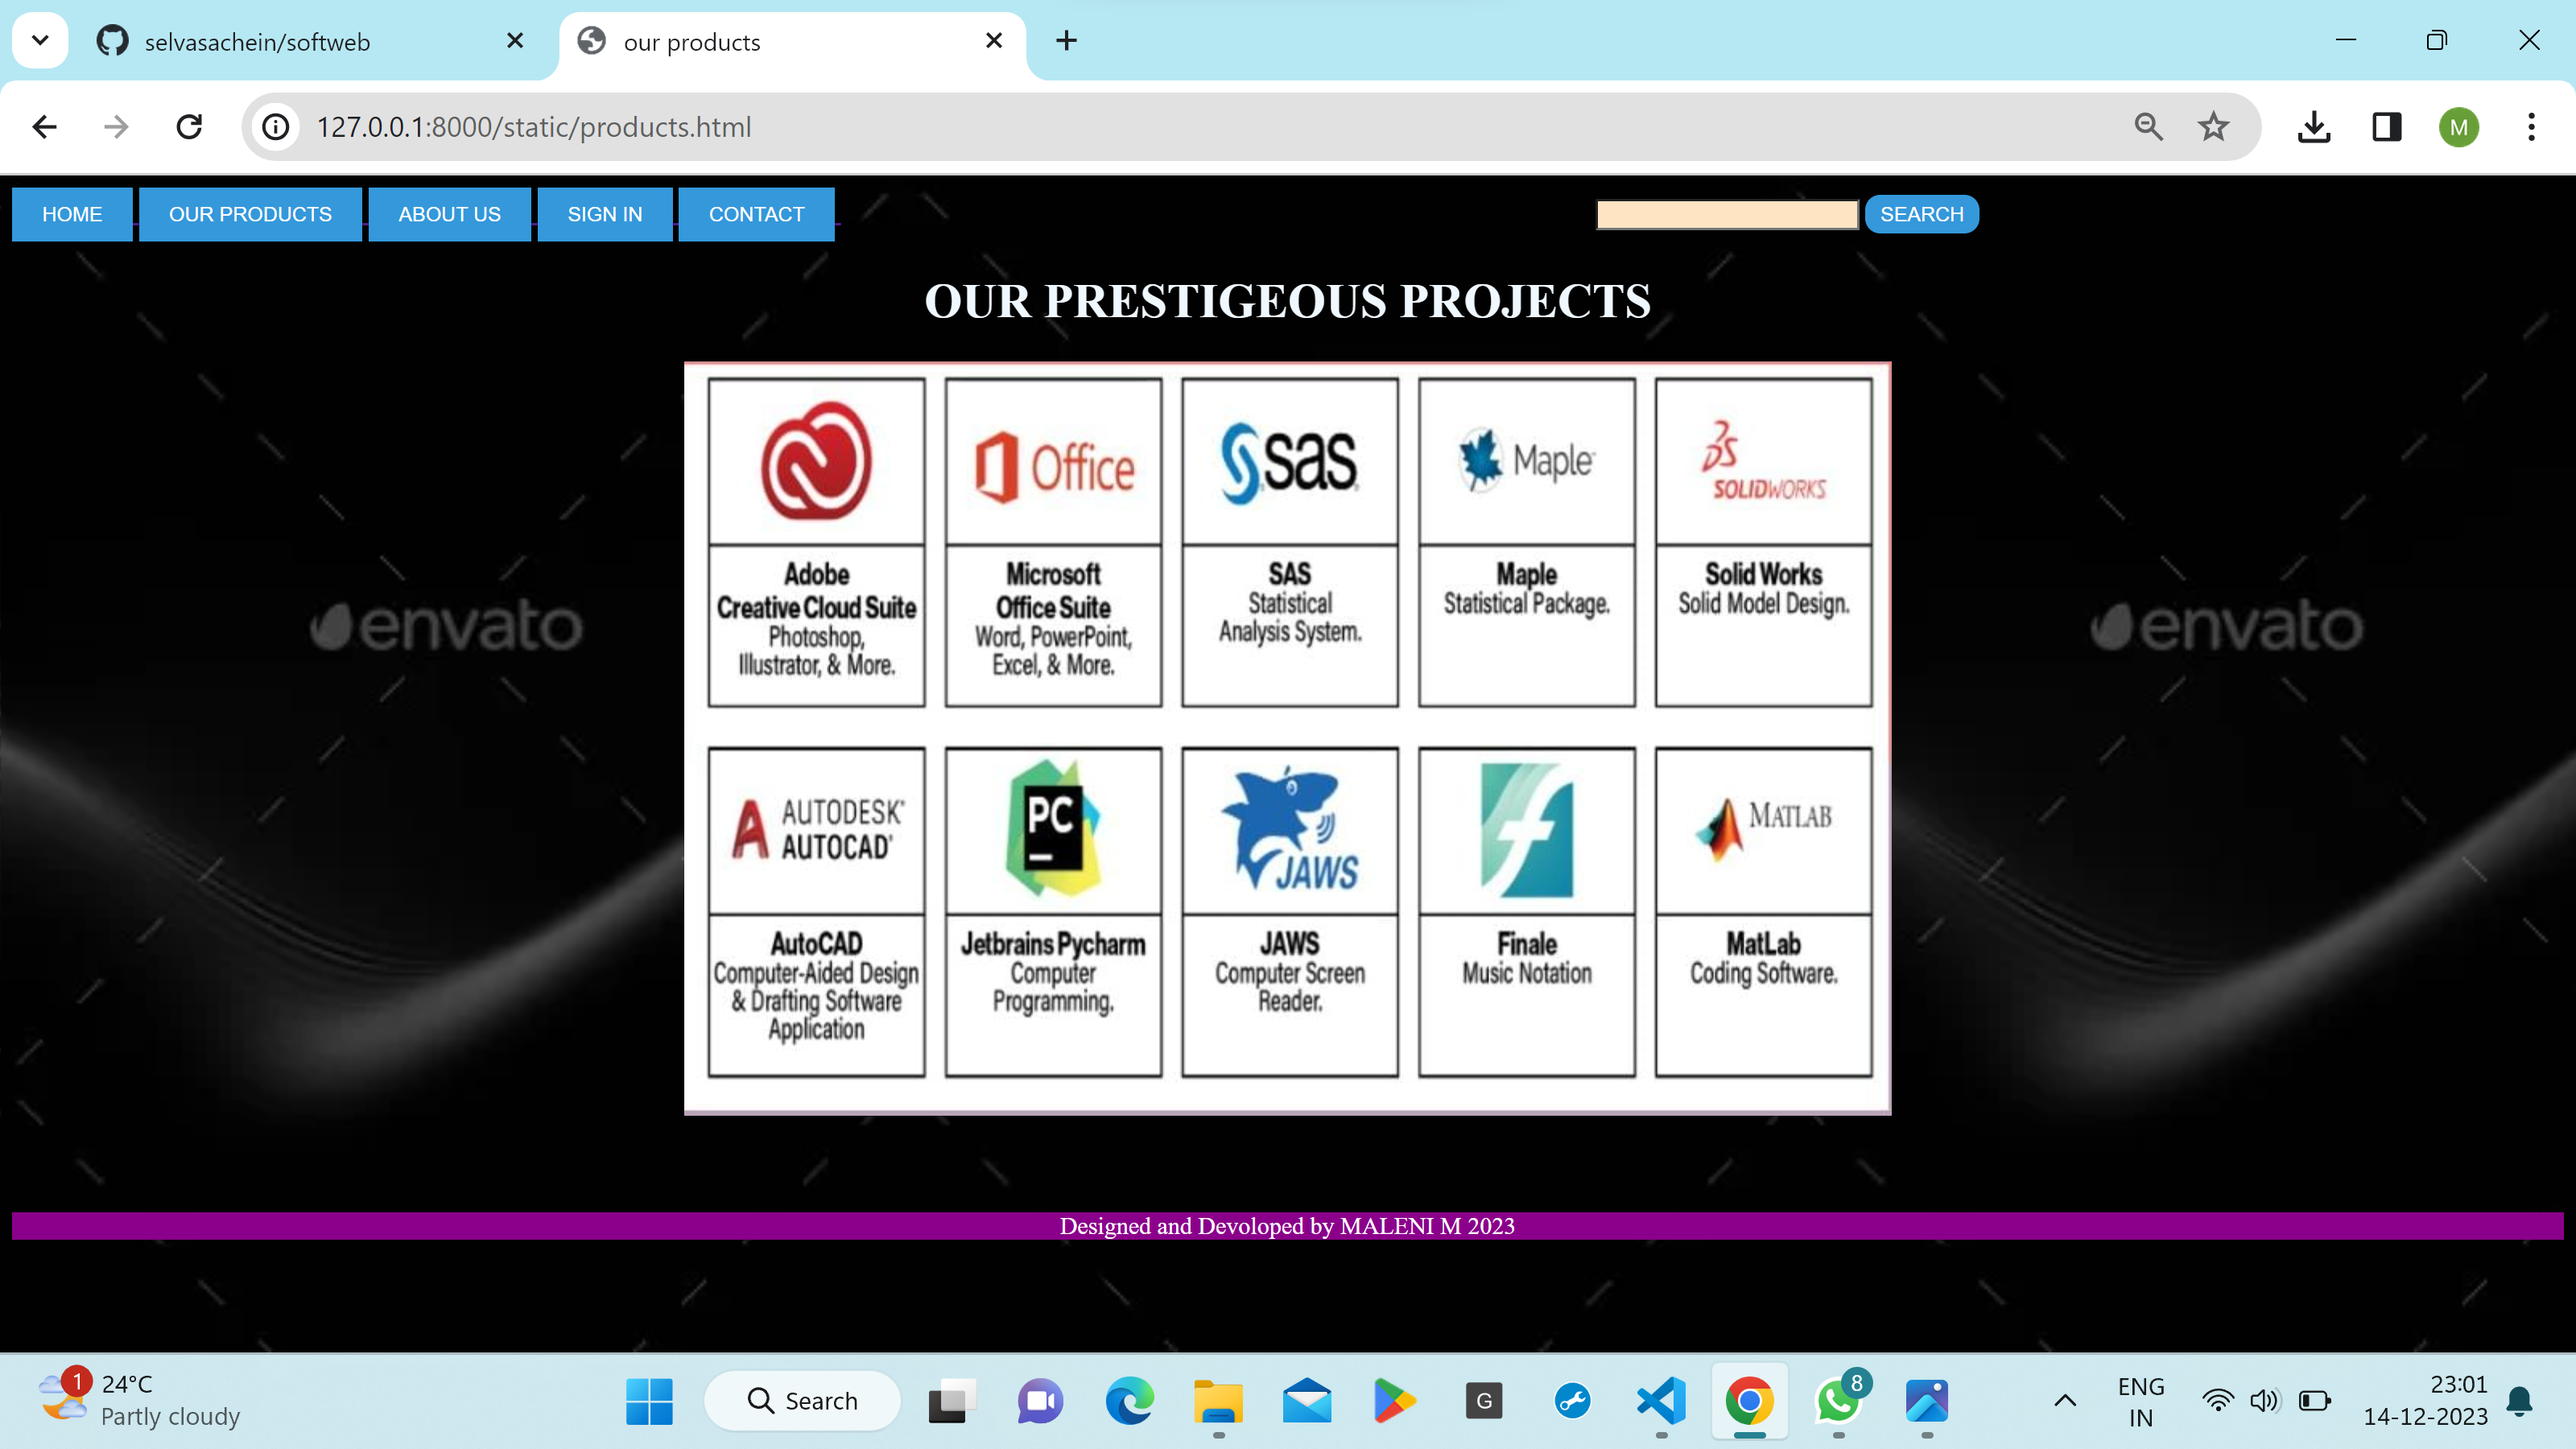
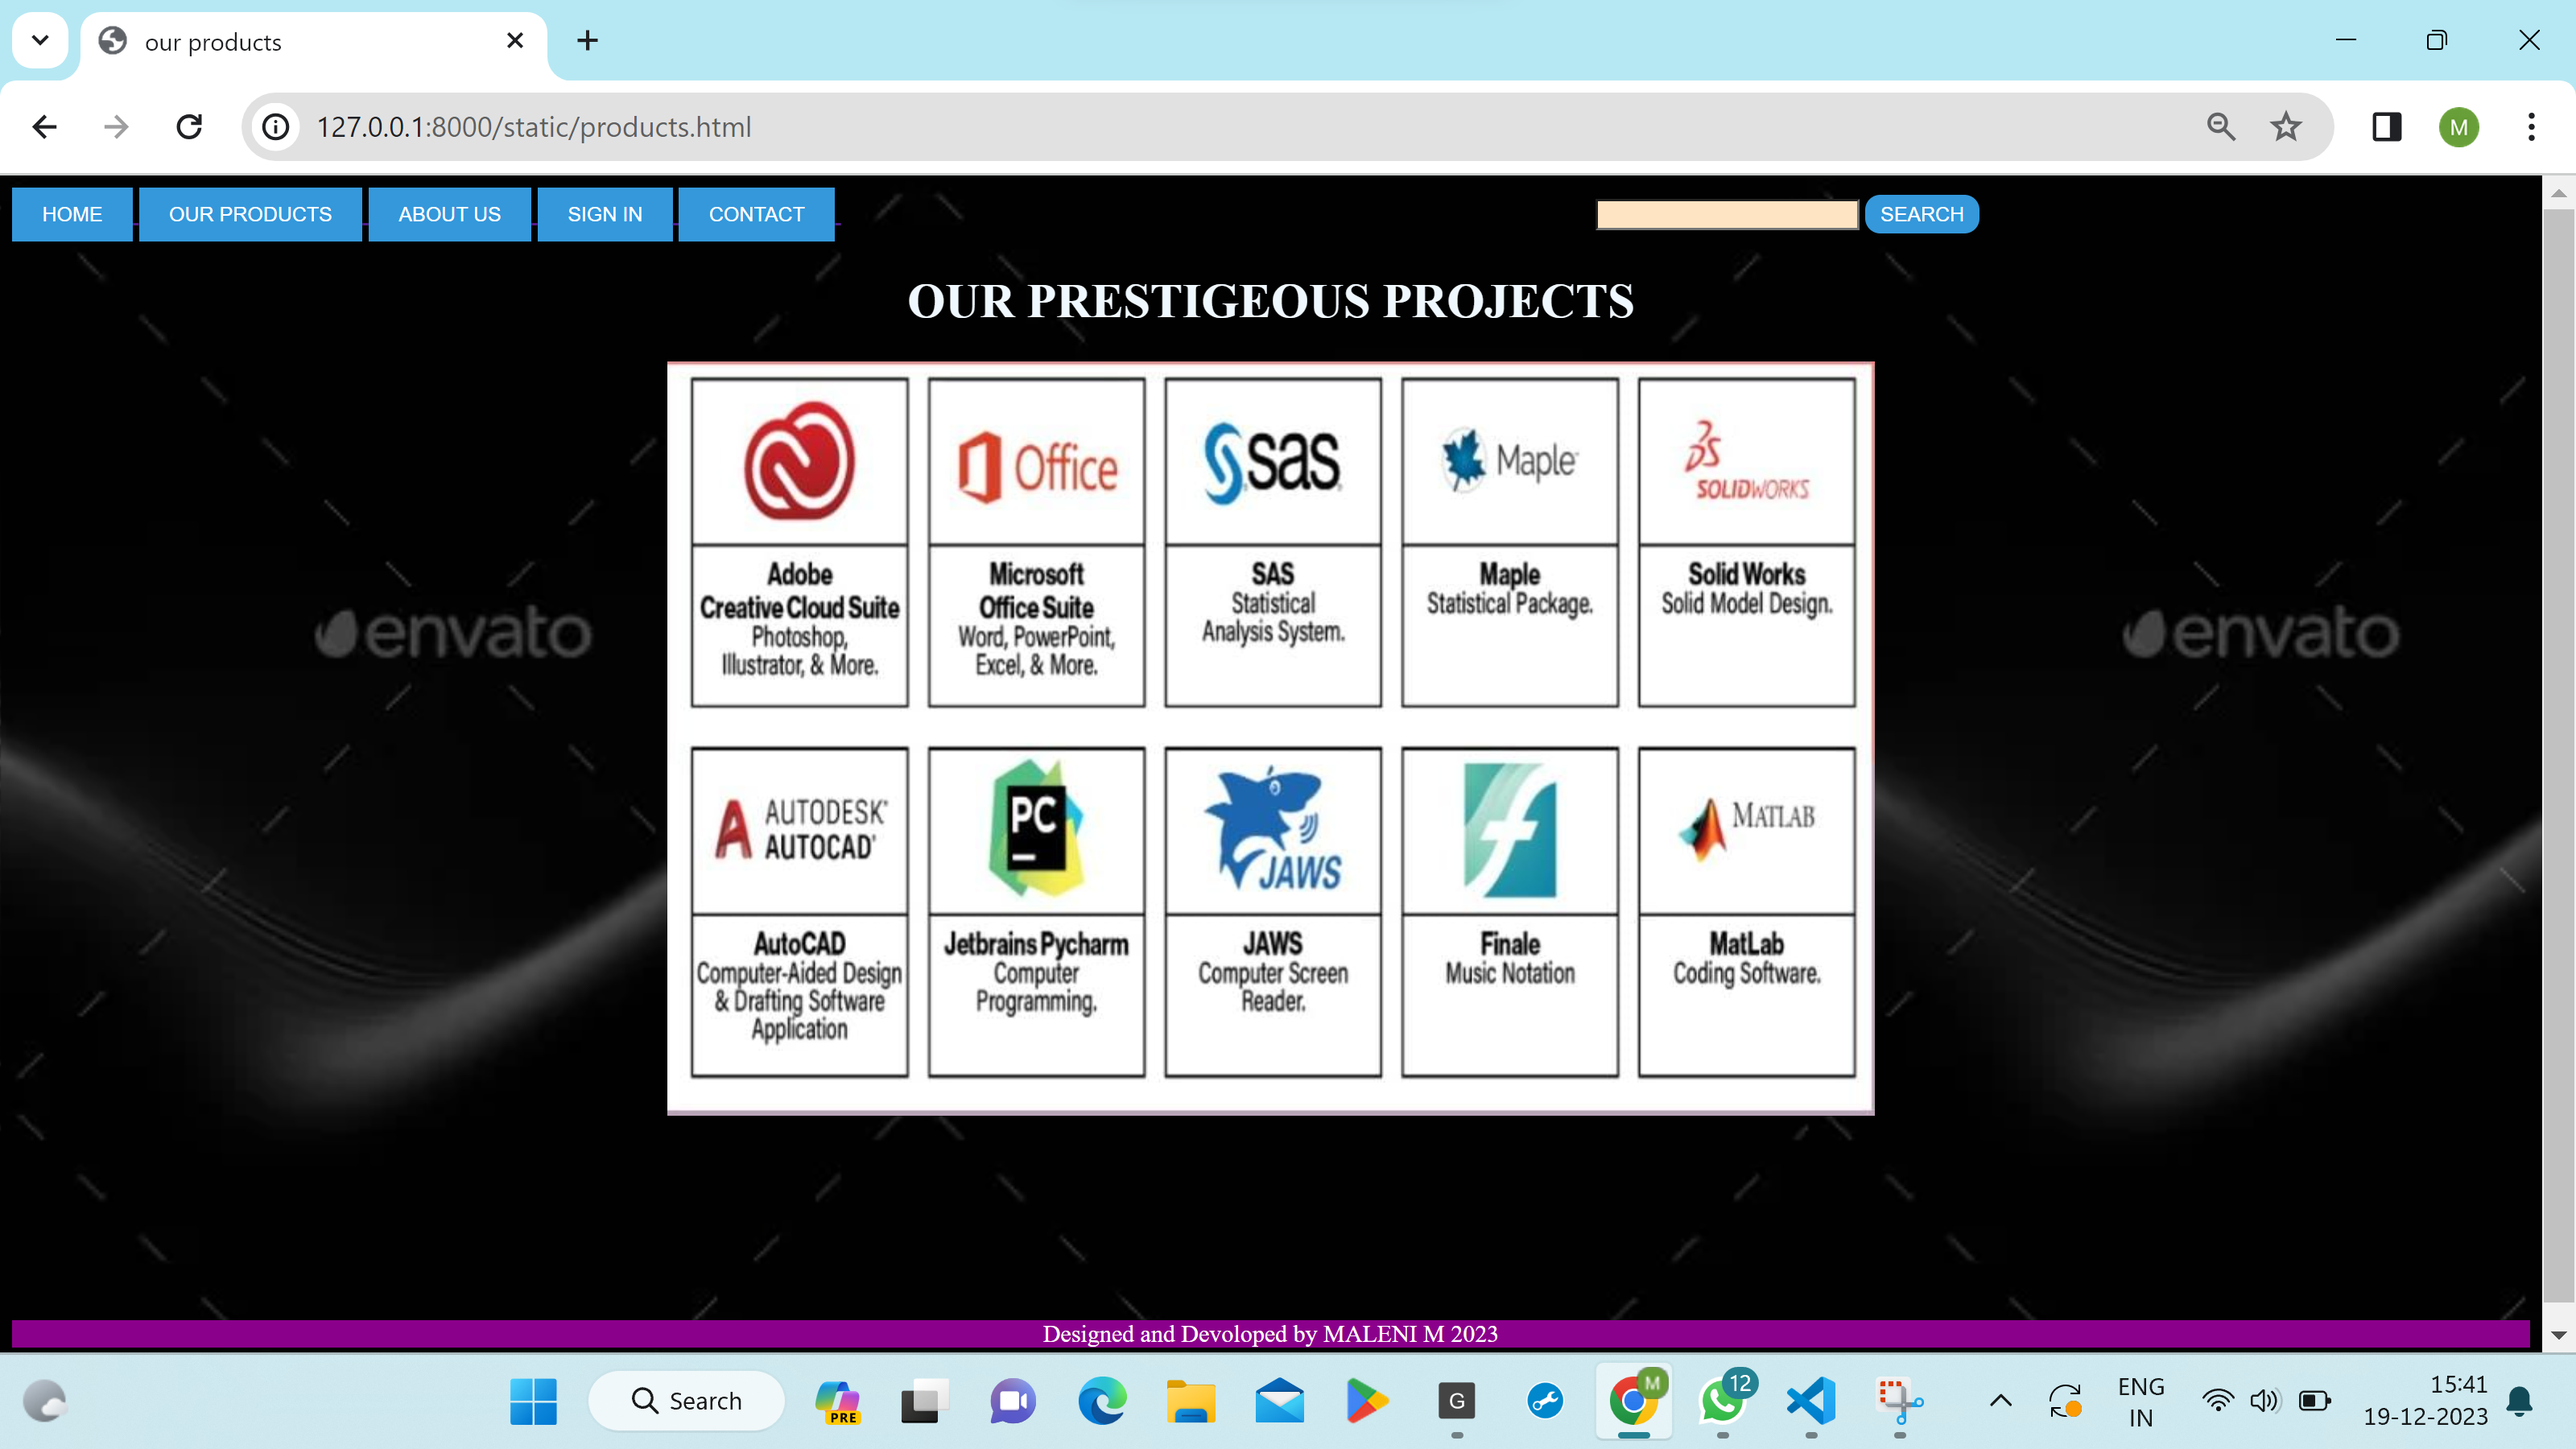
Success

diff --git a/soft/sft/static/products.html b/soft/sft/static/products.html
@@ -75,7 +75,7 @@
         <img src="bg4.jpg" height="500" width="800">
     </center>
     </body>
-    <footer style="background-color:darkmagenta;margin-top: 64; border: none;">
+    <footer style="background-color:darkmagenta;margin-top: 135px ; border: none;">
         <P style="color:#ffffff; ;"align="center">Designed and Devoloped by MALENI M 2023 </P>
     </footer>
 </html>

diff --git a/soft/sft/static/contact.html b/soft/sft/static/contact.html
@@ -158,7 +158,7 @@ border:2px solid white;
     </center>
     </div>
 </body>
-<footer style="background-color:darkmagenta;margin-top: 118px; border: none;">
+<footer style="background-color:darkmagenta;margin-top: 200px ; border: none;">
     <P style="color:#ffffff ;"align="center">Designed and Devoloped by MALENI M 2023 </P>
 </footer>
 </html>

diff --git a/soft/sft/static/mainpage.html b/soft/sft/static/mainpage.html
@@ -165,7 +165,7 @@
     </center>
 
 </body>
-<footer style="background-color:darkmagenta;margin-top: 143; border: none;">
+<footer style="background-color:darkmagenta;margin-top:218px;border: none;">
     <P style="color:#ffffff; ;"align="center">Designed and Devoloped by MALENI M 2023 </P>
 </footer>
 </html>

diff --git a/soft/sft/static/about.html b/soft/sft/static/about.html
@@ -115,7 +115,7 @@
 
 </DIV>
 </body>
-<footer style="background-color:darkmagenta;margin-top: 143; border: none;">
+<footer style="background-color:darkmagenta;margin-top: 218px; border: none;">
     <P style="color:#ffffff; ;"align="center">Designed and Devoloped by MALENI M 2023 </P>
 </footer>
 </html>

diff --git a/soft/sft/static/sign.html b/soft/sft/static/sign.html
@@ -144,7 +144,7 @@
     </div>
 </div>
 </body>
-<footer style="background-color:darkmagenta; border: none;">
+<footer style="background-color:darkmagenta; margin-top:63px;border: none;">
     <P style="color:#ffffff ;"align="center">Designed and Devoloped by MALENI M 2023 </P>
 </footer>
 </html>

diff --git a/README.md b/README.md
@@ -197,7 +197,7 @@ mainpage.html
     </center>
 
 </body>
-<footer style="background-color:darkmagenta;margin-top: 143; border: none;">
+<footer style="background-color:darkmagenta;margin-top: 218px; border: none;">
     <P style="color:#ffffff; ;"align="center">Designed and Devoloped by MALENI M 2023 </P>
 </footer>
 </html>
@@ -282,7 +282,7 @@ products.html
         <img src="bg4.jpg" height="500" width="800">
     </center>
     </body>
-    <footer style="background-color:darkmagenta;margin-top: 64; border: none;">
+    <footer style="background-color:darkmagenta;margin-top: 135px; border: none;">
         <P style="color:#ffffff; ;"align="center">Designed and Devoloped by MALENI M 2023 </P>
     </footer>
 </html>
@@ -407,7 +407,7 @@ about.html
 
 </DIV>
 </body>
-<footer style="background-color:darkmagenta;margin-top: 143; border: none;">
+<footer style="background-color:darkmagenta;margin-top: 218px; border: none;">
     <P style="color:#ffffff; ;"align="center">Designed and Devoloped by MALENI M 2023 </P>
 </footer>
 </html>
@@ -561,7 +561,7 @@ sign.html
     </div>
 </div>
 </body>
-<footer style="background-color:darkmagenta; border: none;">
+<footer style="background-color:darkmagenta;margin-top:63px; border: none;">
     <P style="color:#ffffff ;"align="center">Designed and Devoloped by MALENI M 2023 </P>
 </footer>
 </html>
@@ -729,7 +729,7 @@ border:2px solid white;
     </center>
     </div>
 </body>
-<footer style="background-color:darkmagenta;margin-top: 118px; border: none;">
+<footer style="background-color:darkmagenta;margin-top: 200px; border: none;">
     <P style="color:#ffffff ;"align="center">Designed and Devoloped by MALENI M 2023 </P>
 </footer>
 </html>
